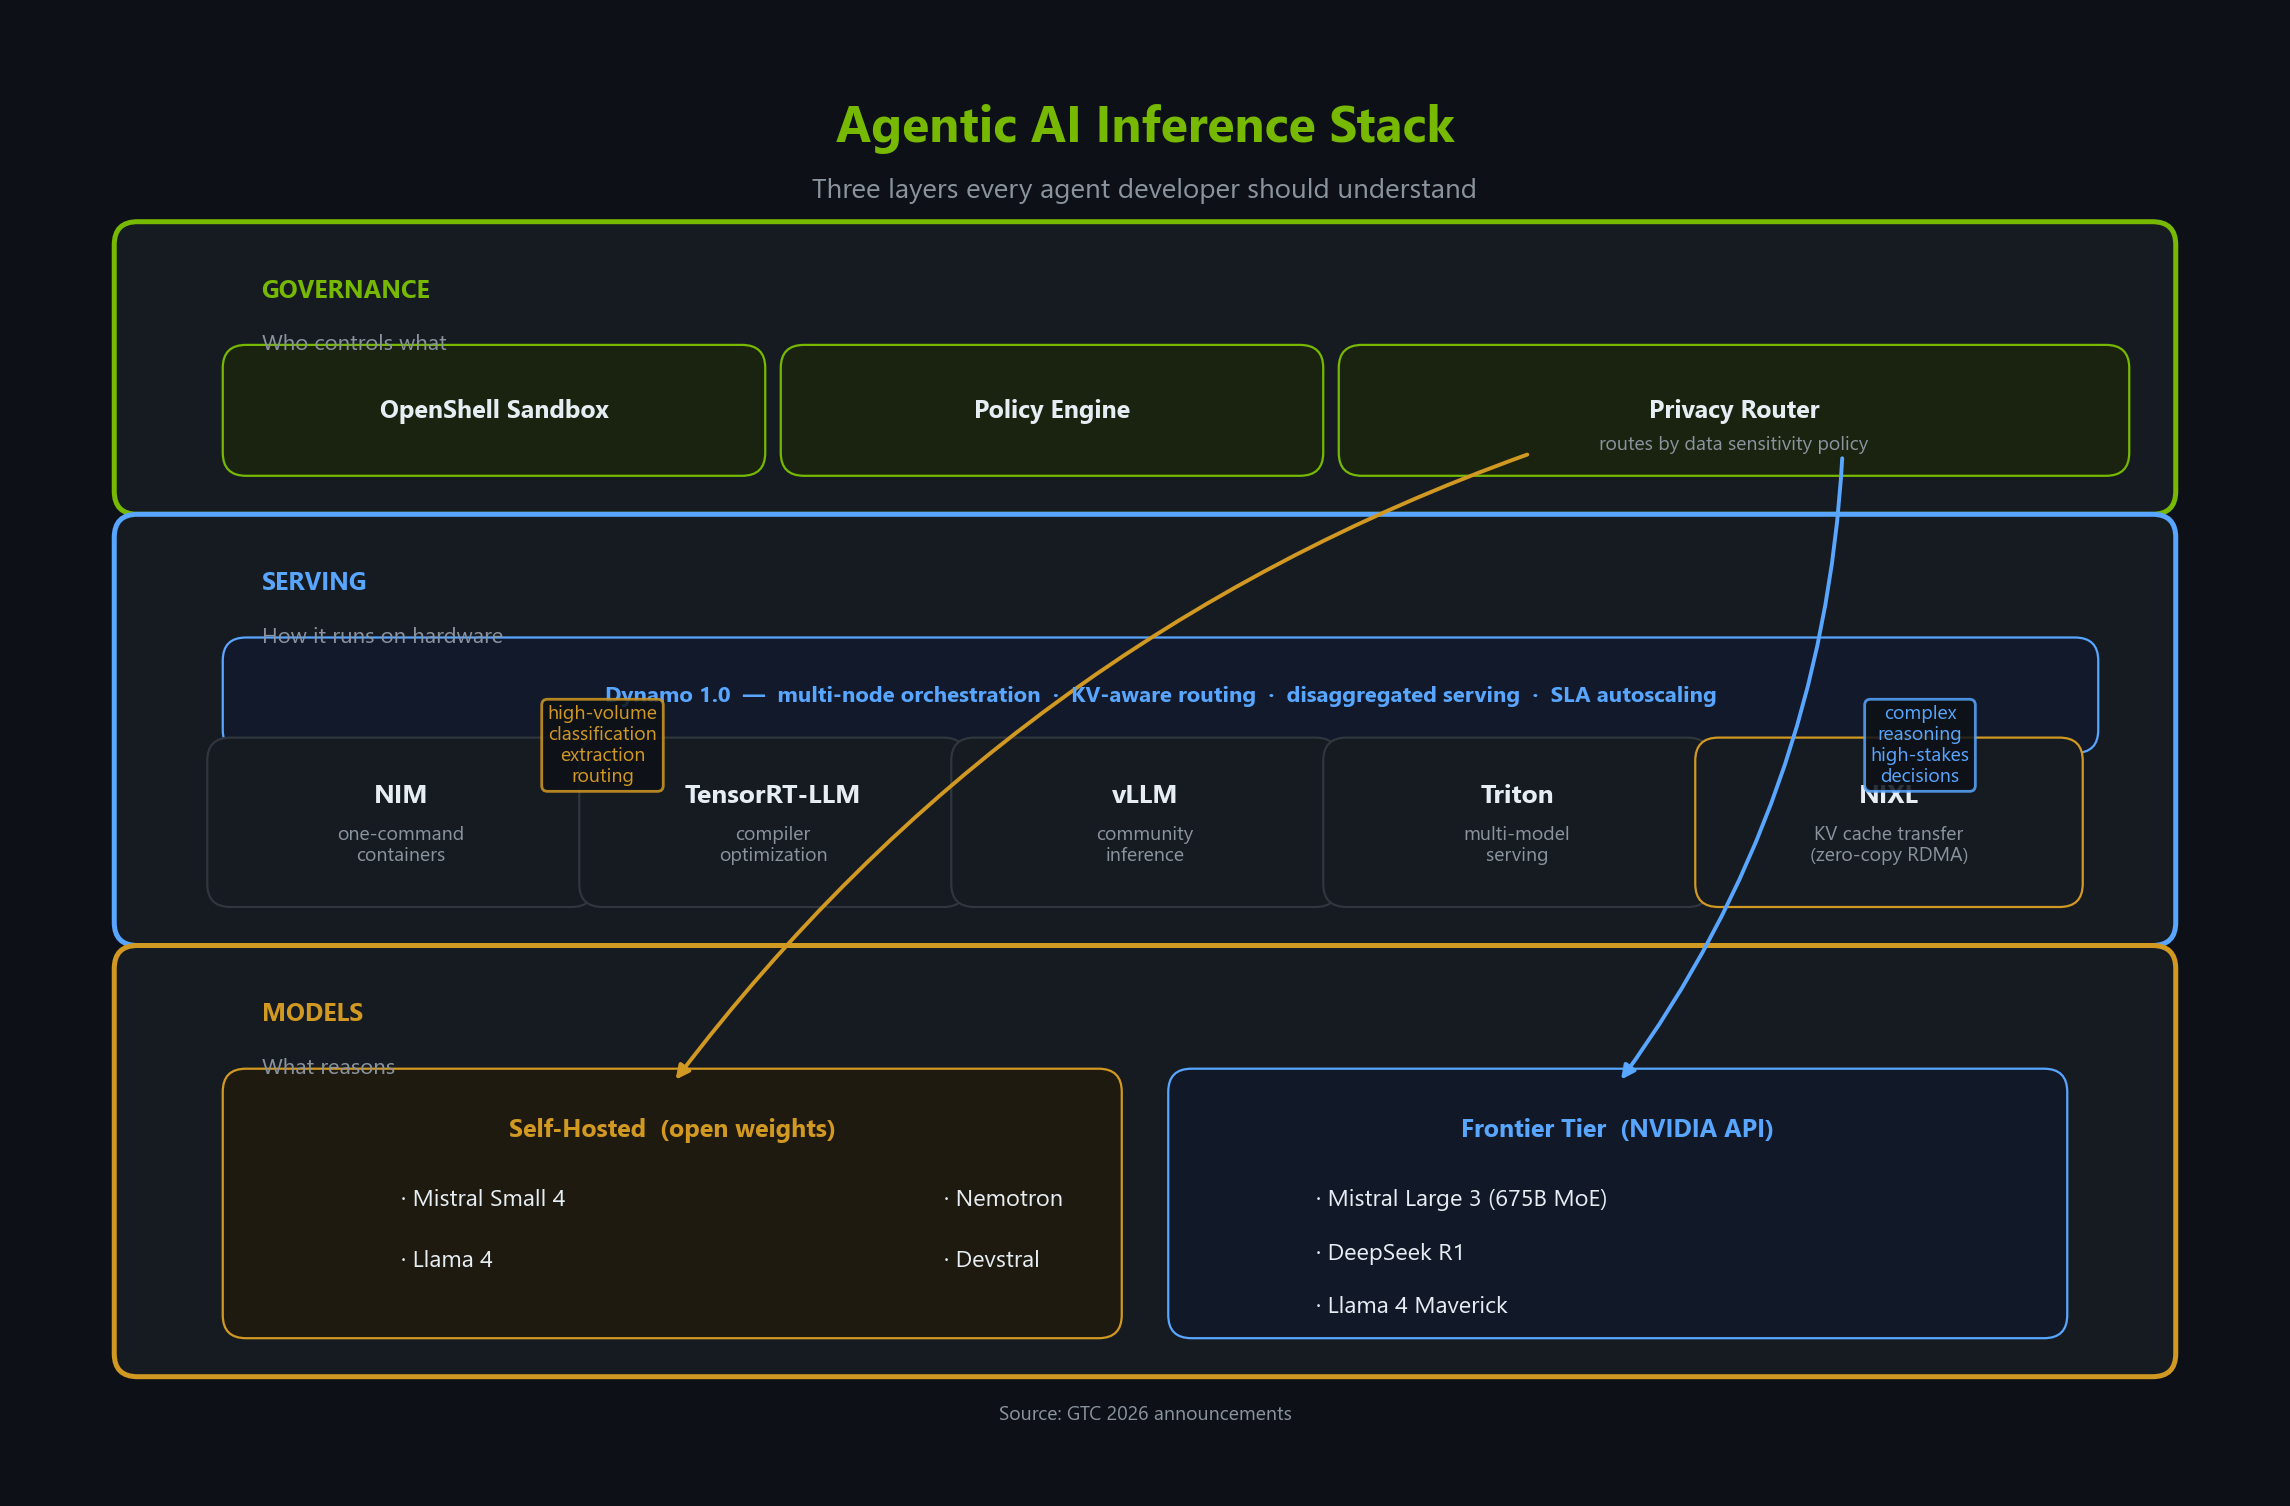
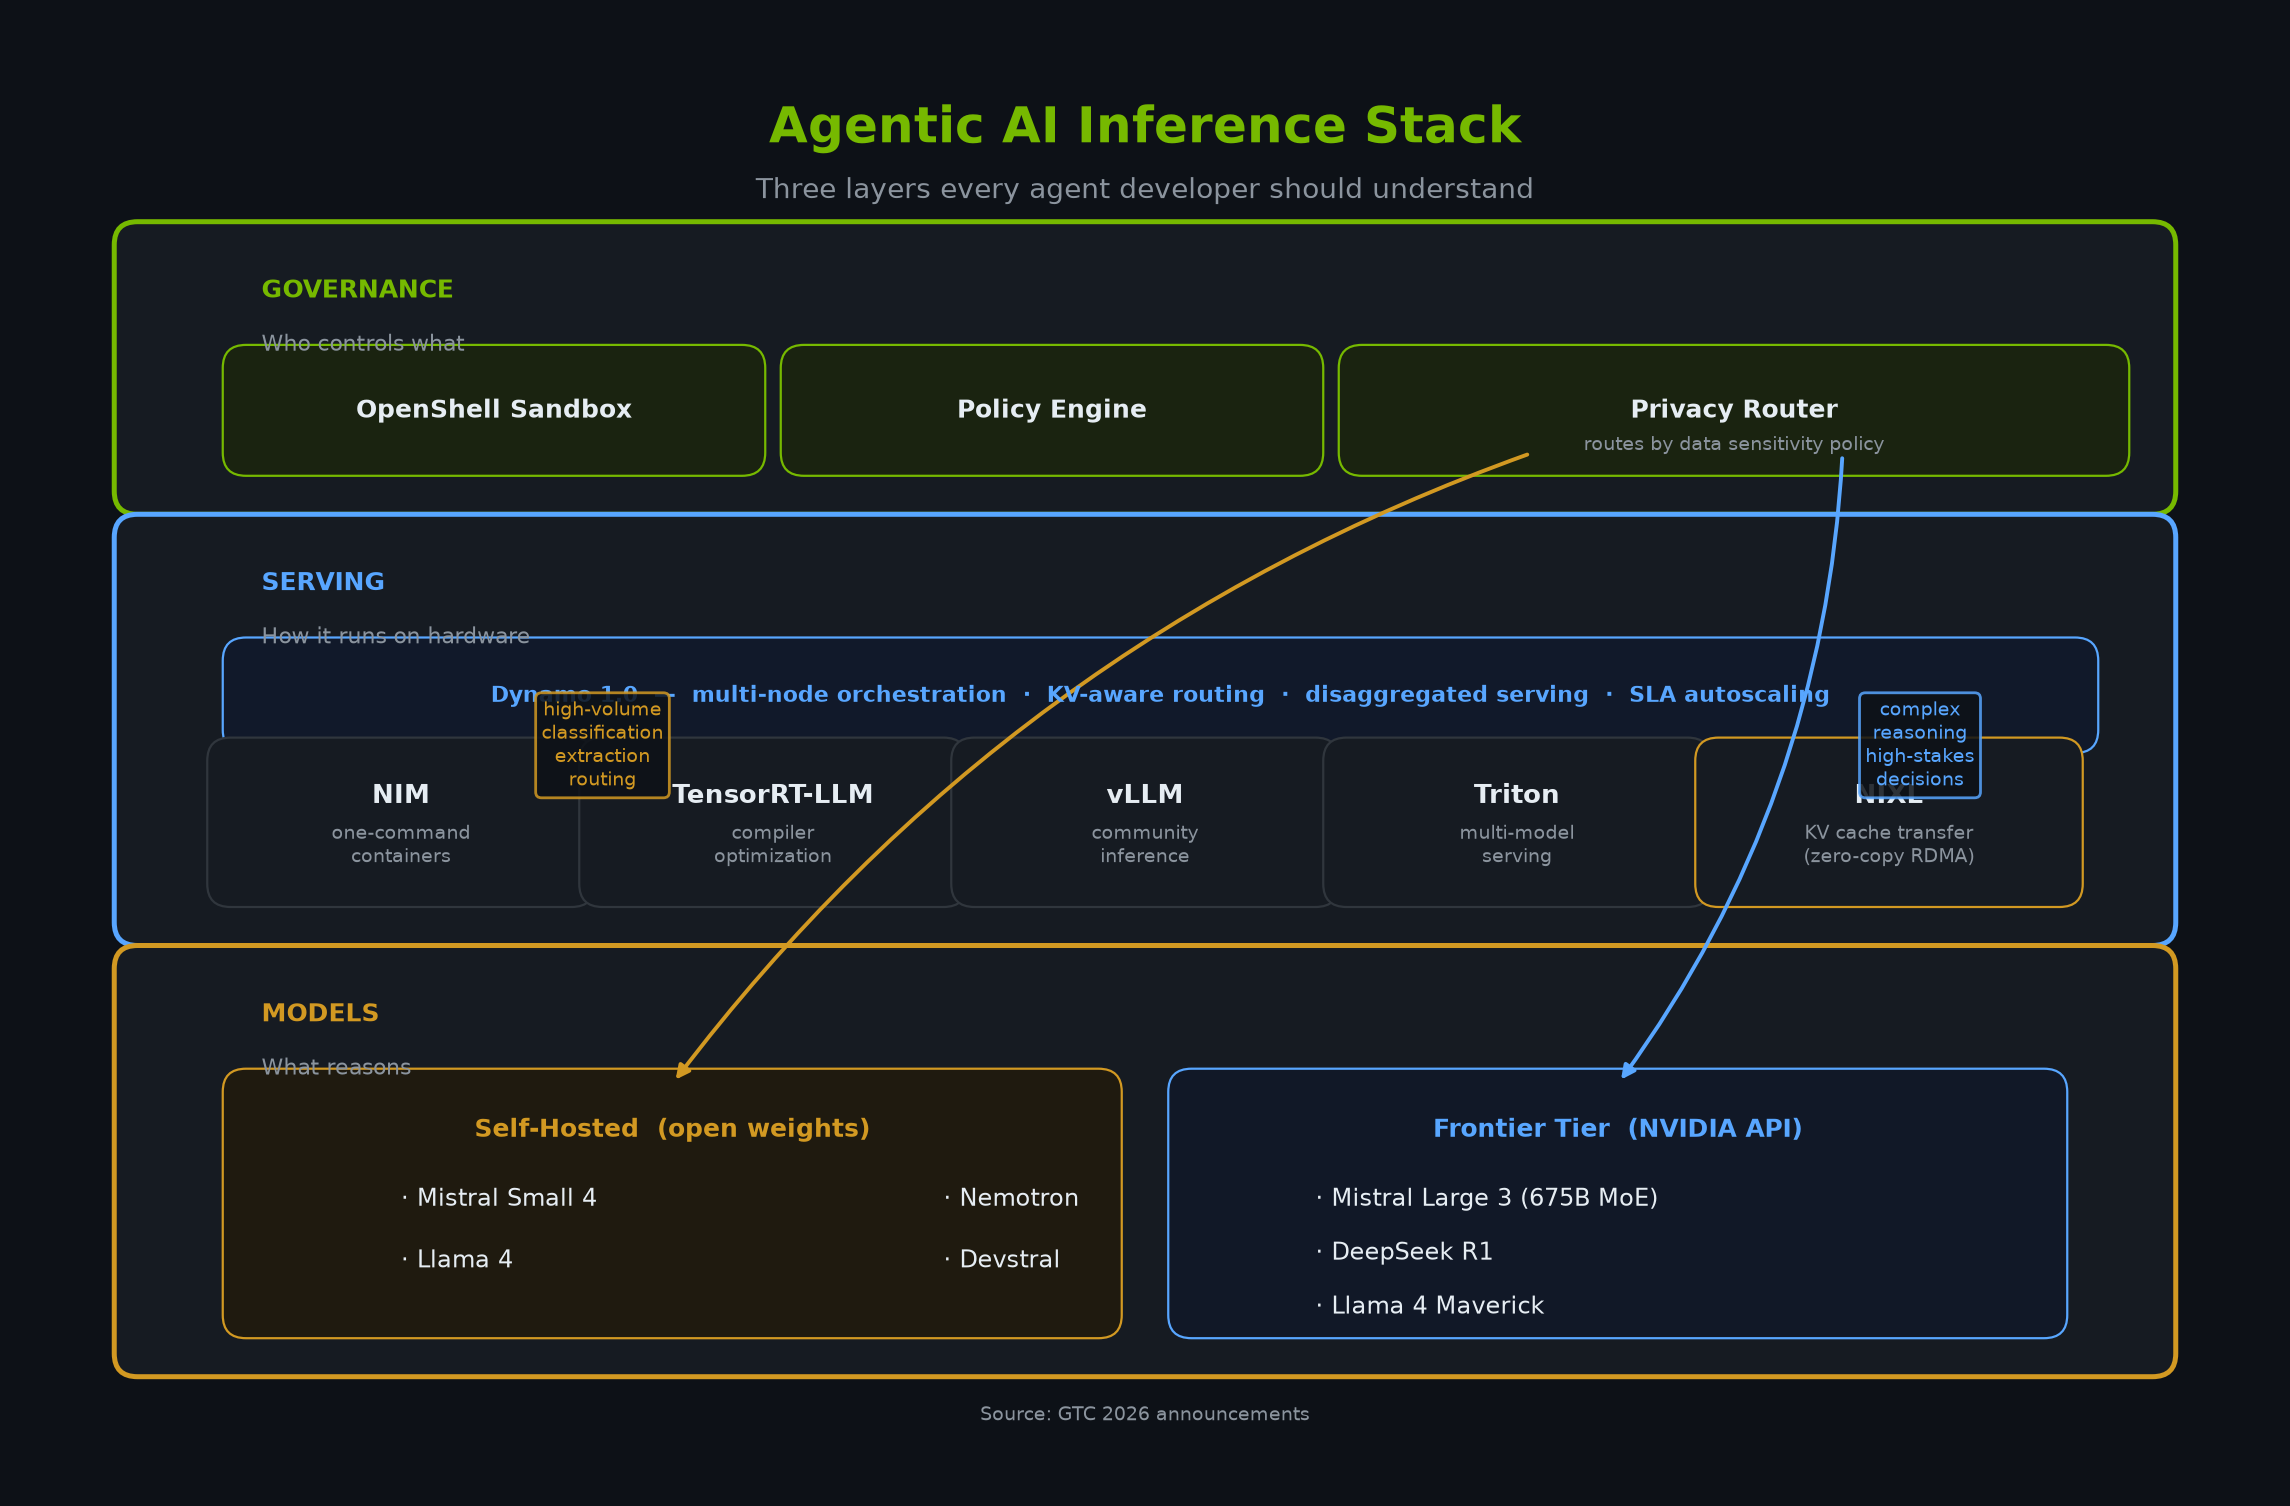
agents-need-better-infrastructure: July fact audit + regenerated figures
Corrections from primary-source verification: AI-Q pairs local Nemotron
(not Mistral Small 4) with GPT-5.2; Small 4 launched on the GTC keynote
day with day-0 NIM support and is a unified hybrid model; Dynamo's 7x
scoped to disaggregated-vs-aggregated on the same Blackwell hardware;
Triton framing scoped to NVIDIA's stack; NVFP4 accuracy stated as
within 1% of FP8 per NVIDIA; Large 3 catalog URL fixed (675b segment).
Figures regenerated 2026-07-03: routing scatter relabeled truthfully
(both tiers are API calls) and demo-data renders marked illustrative.

diff --git a/src/content/writings/agents-need-better-infrastructure/index.md b/src/content/writings/agents-need-better-infrastructure/index.md
@@ -28,7 +28,7 @@ Some teams were running [Ministral 3](https://docs.mistral.ai/models/ministral-3
 
 In the same room, [NVIDIA](https://www.nvidia.com/)'s technical marketing team was helping builders navigate [NVFP4 quantization on Blackwell](https://developer.nvidia.com/blog/3-ways-nvfp4-accelerates-ai-training-and-inference/), optimizing inference for the projects being built in real time. I didn't fully appreciate what they were doing until later. They weren't selling GPUs. They were solving the inference problem that every agent builder in that room was about to hit.
 
-Three weeks later, [GTC 2026](https://www.nvidia.com/en-us/gtc/). NVIDIA and Mistral shared a stage. Half the keynote was about infrastructure for agents, not chatbots. [Dynamo 1.0](https://github.com/ai-dynamo/dynamo). [OpenShell](https://developer.nvidia.com/blog/run-autonomous-self-evolving-agents-more-safely-with-nvidia-openshell/). [NIXL](https://developer.nvidia.com/blog/enhancing-distributed-inference-performance-with-the-nvidia-inference-transfer-library/) for zero-copy KV cache transfer across disaggregated workers. And days before the conference, Mistral released [Small 4](https://huggingface.co/mistralai/Mistral-Small-4-119B-2603): 119 billion parameters, explicitly designed for agentic tool-calling.
+Three weeks later, [GTC 2026](https://www.nvidia.com/en-us/gtc/). NVIDIA and Mistral shared a stage. Half the keynote was about infrastructure for agents, not chatbots. [Dynamo 1.0](https://github.com/ai-dynamo/dynamo). [OpenShell](https://developer.nvidia.com/blog/run-autonomous-self-evolving-agents-more-safely-with-nvidia-openshell/). [NIXL](https://developer.nvidia.com/blog/enhancing-distributed-inference-performance-with-the-nvidia-inference-transfer-library/) for zero-copy KV cache transfer across disaggregated workers. And on the keynote day itself, with day-0 NIM support, Mistral released [Small 4](https://huggingface.co/mistralai/Mistral-Small-4-119B-2603): a 119-billion-parameter sparse model that unifies instruct, reasoning, and agentic coding in one checkpoint.
 
 The through-line clicked. **The hackathon showed me the problem. GTC showed me the answer.**
 
@@ -54,7 +54,7 @@ Consider three workflows I run regularly. Each one stresses infrastructure in a 
 Agents don't just make *more* calls than chatbots. They make *different kinds* of calls (bursty, sequential, iterative, unpredictable) often within the same task. Infrastructure designed for steady-state chatbot traffic can't handle this.
 
 ![A single agent task](./agent-loop-trace.png)
-<p style="text-align: center; font-size: 0.82rem; color: var(--text-muted); margin-top: -8px; margin-bottom: 24px;">A single agent task ('read the repo and summarize it') generates 4 model turns and 3 tool calls. Each blue card is an LLM inference call. Each orange-green pair is a tool round-trip. A chatbot would be one blue card.</p>
+<p style="text-align: center; font-size: 0.82rem; color: var(--text-muted); margin-top: -8px; margin-bottom: 24px;">An illustrative agent run: one task ('read the repo and summarize it') generates 4 model turns and 3 tool calls. Each blue card is an LLM inference call. Each orange-green pair is a tool round-trip. A chatbot would be one blue card.</p>
 
 This is exactly what NVIDIA's [Dynamo 1.0](https://github.com/ai-dynamo/dynamo) targets: an orchestration layer that routes requests to GPUs with cached context and autoscales based on latency SLAs. More on that below.
 
@@ -71,12 +71,12 @@ But here's the thing. This isn't either/or.
 
 Classification, extraction, routing? Those run on a 12-billion-parameter model without breaking a sweat. Multi-step analysis, ambiguous problem-solving? That's where larger models justify their cost. **The architecture that wins is hybrid: route easy calls to small, fast models; hard calls to frontier-class models.**
 
-The entire routing stack can live under one API. [Mistral Small 4](https://build.nvidia.com/mistralai/mistral-small-4-119b-2603), a 119B model purpose-built for agentic tool-calling, handles classification and the fast tier. [Mistral Large 3](https://build.nvidia.com/mistralai/mistral-large-3-instruct-2512) (675B MoE) handles complex reasoning. Both served through NVIDIA's API catalog at `integrate.api.nvidia.com`. One key, one endpoint pattern, two tiers of intelligence.
+The entire routing stack can live under one API. [Mistral Small 4](https://build.nvidia.com/mistralai/mistral-small-4-119b-2603), a 119B sparse model with first-class agentic tool-calling, handles classification and the fast tier. [Mistral Large 3](https://build.nvidia.com/mistralai/mistral-large-3-675b-instruct-2512) (675B MoE) handles complex reasoning. Both served through NVIDIA's API catalog at `integrate.api.nvidia.com`. One key, one endpoint pattern, two tiers of intelligence.
 
 ![Hybrid routing in practice](./hybrid-routing-decisions.png)
-<p style="text-align: center; font-size: 0.82rem; color: var(--text-muted); margin-top: -8px; margin-bottom: 24px;">Hybrid routing in practice: a classifier model scores each task's complexity (x-axis), then routes below the threshold to Mistral Small 4 (fast tier) and above to Mistral Large 3 (frontier tier). Simple tasks cluster left: fast and cheap. Complex tasks go right: slower but higher quality. Both tiers run through the same NVIDIA API.</p>
+<p style="text-align: center; font-size: 0.82rem; color: var(--text-muted); margin-top: -8px; margin-bottom: 24px;">Hybrid routing, illustrated: a classifier model scores each task's complexity (x-axis), then routes below the threshold to Mistral Small 4 (fast tier) and above to Mistral Large 3 (frontier tier). Simple tasks cluster left: fast and cheap. Complex tasks go right: slower but higher quality. Both tiers run through the same NVIDIA API.</p>
 
-NVIDIA's [AI-Q](https://developer.nvidia.com/blog/how-to-build-deep-agents-for-enterprise-search-with-nvidia-ai-q-and-langchain/) enterprise research blueprint runs [Mistral Small 4](https://huggingface.co/mistralai/Mistral-Small-4-119B-2603) locally and GPT-5.2 via API in the same pipeline. [OpenShell](https://developer.nvidia.com/blog/run-autonomous-self-evolving-agents-more-safely-with-nvidia-openshell/)'s Privacy Router automates this routing based on data sensitivity policy, not developer preference. **The hybrid model isn't a compromise. It's the reference architecture from the company building the GPUs.** And when you're ready to self-host, the same models run on NIM containers with the same API: swap the URL, keep the code.
+NVIDIA's [AI-Q](https://developer.nvidia.com/blog/how-to-build-deep-agents-for-enterprise-search-with-nvidia-ai-q-and-langchain/) enterprise research blueprint runs Nemotron locally and GPT-5.2 via API in the same pipeline. [OpenShell](https://developer.nvidia.com/blog/run-autonomous-self-evolving-agents-more-safely-with-nvidia-openshell/)'s Privacy Router automates this routing based on data sensitivity policy, not developer preference. **The hybrid model isn't a compromise. It's the reference architecture from the company building the GPUs.** And when you're ready to self-host, the same models run on NIM containers with the same API: swap the URL, keep the code.
 
 ## The Infrastructure Layer Just Arrived
 
@@ -84,11 +84,11 @@ I am not going to recap the GTC keynote. Two announcements matter for anyone bui
 
 ### Dynamo 1.0: the orchestration gap
 
-Before Dynamo, scaling inference meant manually configuring [Triton](https://developer.nvidia.com/triton-inference-server) across nodes. Dynamo coordinates inference engines ([TensorRT-LLM](https://github.com/NVIDIA/TensorRT-LLM), [vLLM](https://github.com/vllm-project/vllm), [NIM](https://build.nvidia.com/)) into a unified multi-node system. It routes requests to GPUs that already cached relevant context, cutting time-to-first-token in half. It separates prompt processing from token generation so each can scale independently. And it autoscales on latency SLAs: not fixed capacity, but actual performance targets.
+In NVIDIA's own stack, multi-node inference previously meant hand-orchestrating [Triton](https://developer.nvidia.com/triton-inference-server); NVIDIA positions Dynamo as its designed-for-distributed successor. Dynamo coordinates inference engines ([TensorRT-LLM](https://github.com/NVIDIA/TensorRT-LLM), [vLLM](https://github.com/vllm-project/vllm), [NIM](https://build.nvidia.com/)) into a unified multi-node system. It routes requests to GPUs that already cached relevant context, cutting time-to-first-token in half. It separates prompt processing from token generation so each can scale independently. And it autoscales on latency SLAs: not fixed capacity, but actual performance targets.
 
 Under the hood, Dynamo's disaggregated serving relies on [NIXL](https://developer.nvidia.com/blog/enhancing-distributed-inference-performance-with-the-nvidia-inference-transfer-library/), the NVIDIA Inference Transfer Library. When prefill and decode run on separate GPU workers, NIXL handles zero-copy KV cache transfer between them, the plumbing that makes disaggregated serving fast.
 
-The headline number: **7x throughput per GPU** on [DeepSeek R1](https://huggingface.co/deepseek-ai/DeepSeek-R1). Built in Rust with Python extensibility: open source from day one. You don't need this for a single GPU. You need it when agent traffic becomes unpredictable at scale: when the fan-outs, chains, and loops from dozens of concurrent workflows collide on the same cluster.
+The headline number: **up to 7x the requests served** on the same Blackwell hardware, disaggregated versus aggregated serving, measured on [DeepSeek R1](https://huggingface.co/deepseek-ai/DeepSeek-R1). Built in Rust with Python extensibility: open source from day one. You don't need this for a single GPU. You need it when agent traffic becomes unpredictable at scale: when the fan-outs, chains, and loops from dozens of concurrent workflows collide on the same cluster.
 
 ### OpenShell: the governance gap
 
@@ -118,7 +118,7 @@ I put the theory to the test. Three working projects, all running on [Mistral Sm
 
 **Project 1: Tool-calling agent loop.** The `while(tool_use)` pattern: the model decides which tools to call and when to stop. No hardcoded steps.
 
-**Project 2: Hybrid router.** A complexity classifier routes easy calls to Mistral Small 4 and hard calls to [Mistral Large 3](https://build.nvidia.com/mistralai/mistral-large-3-instruct-2512). One API key, two intelligence tiers. The same architecture NVIDIA's OpenShell Privacy Router implements at the infrastructure level.
+**Project 2: Hybrid router.** A complexity classifier routes easy calls to Mistral Small 4 and hard calls to [Mistral Large 3](https://build.nvidia.com/mistralai/mistral-large-3-675b-instruct-2512). One API key, two intelligence tiers. The same architecture NVIDIA's OpenShell Privacy Router implements at the infrastructure level.
 
 **Project 3: AI news aggregator.** The most revealing demo. An autonomous agent that crawls 9 RSS feeds (OpenAI, Google, NVIDIA, DeepMind, Hugging Face, MIT Tech Review, arXiv, Anthropic, Mistral), identifies the most significant stories, fetches full article text, and compiles a structured markdown digest, all without human intervention.
 
@@ -139,7 +139,7 @@ The bottleneck is exactly what you'd expect from the inference patterns describe
 ![Per-turn latency breakdown of the news aggregator agent](./news-trace-analysis.png)
 <p style="text-align: center; font-size: 0.82rem; color: var(--text-muted); margin-top: -8px; margin-bottom: 24px;">Per-turn latency breakdown of the news aggregator agent. Turn 4 (where the model synthesizes 12 articles into a structured digest) consumes 71% of total execution time. This is pure model inference, not I/O. Infrastructure choices at the serving layer (quantization format, batch scheduling, disaggregated prefill/decode) determine whether this turn takes 47 seconds or 20.</p>
 
-Quantization matters here more than anywhere. [NVFP4](https://developer.nvidia.com/blog/3-ways-nvfp4-accelerates-ai-training-and-inference/), NVIDIA's 4-bit floating point format, delivers higher throughput than FP8 without sacrificing model accuracy. For Turn 4's 47 seconds of pure model inference, the difference between FP8 and NVFP4 throughput is the difference between a minute-long workflow and a sub-30-second one.
+Quantization matters here more than anywhere. [NVFP4](https://developer.nvidia.com/blog/3-ways-nvfp4-accelerates-ai-training-and-inference/), NVIDIA's 4-bit floating point format, delivers higher throughput than FP8 with accuracy within 1% of the FP8 baseline on most benchmarks, per NVIDIA's own numbers. For Turn 4's 47 seconds of pure model inference, the difference between FP8 and NVFP4 throughput is the difference between a minute-long workflow and a sub-30-second one.
 
 The real learning wasn't the latency numbers. It was the integration friction. NVIDIA's endpoint rejects message fields that OpenAI's SDK includes by default (`audio`, `refusal`, `annotations`). The default `mistral-nemotron` model returns `finish_reason: "tool_calls"` with an empty tool call list, silently breaking the agent loop. Fixing these required reading error messages, testing model variants, and stripping unsupported fields from the message history.
 
